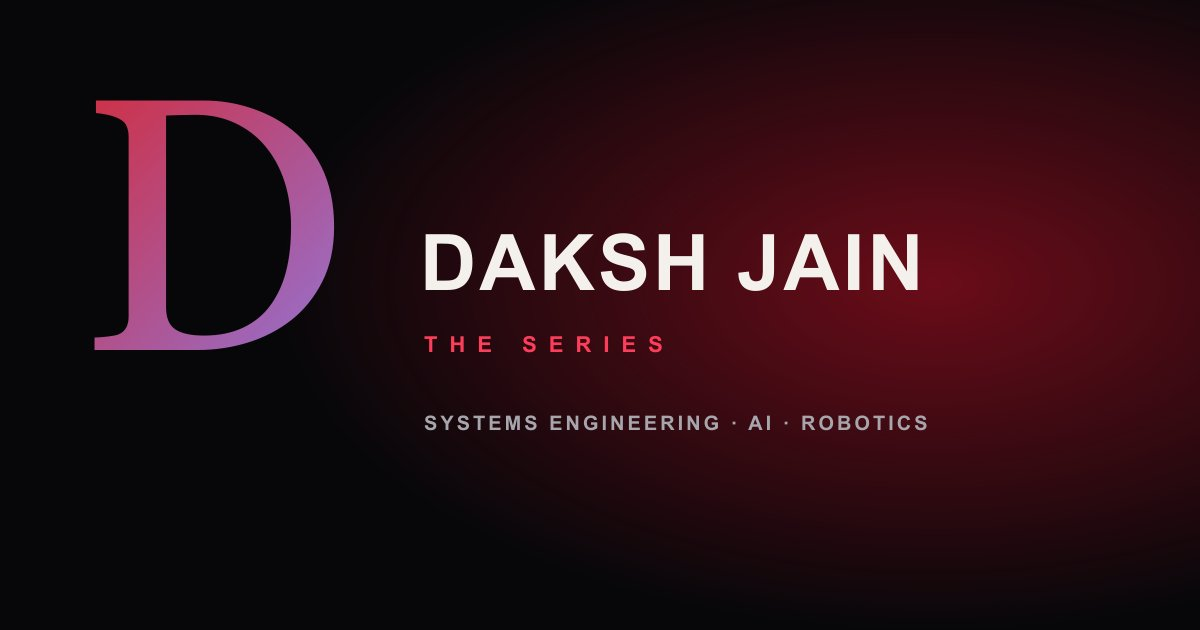
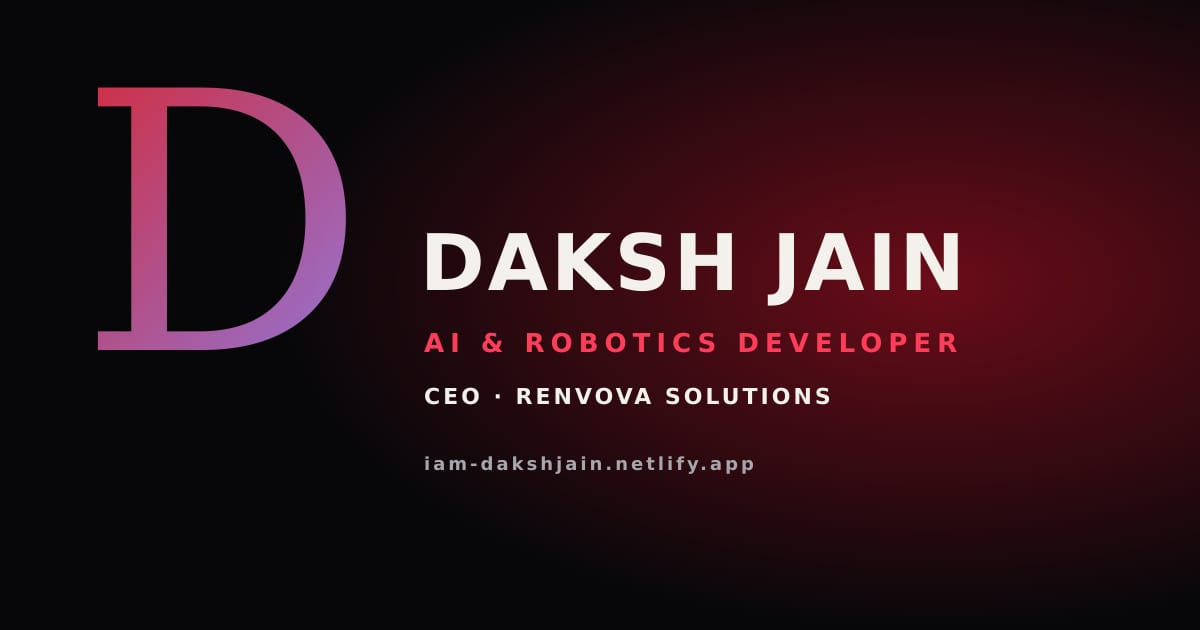
Add SEO metadata, sitemap, robots.txt and Open Graph tags; improve mobile performance (6aed9603d0d4c9b0807c281f)

diff --git a/index.html b/index.html
@@ -1,23 +1,112 @@
 <!doctype html>
-<html lang="en">
+<html lang="en" dir="ltr">
   <head>
     <meta charset="UTF-8" />
     <meta name="viewport" content="width=device-width, initial-scale=1.0, viewport-fit=cover" />
-    <title>Daksh Jain — The Series</title>
-    <meta name="description" content="Daksh Jain — student and CEO of Renvova Resource Solutions, building projects in AI, robotics, accessible learning, and systems engineering." />
+
+    <!-- Primary SEO -->
+    <title>Daksh Jain – AI &amp; Robotics Developer &amp; CEO of Renvova Solutions</title>
+    <meta name="description" content="Daksh Jain is an AI and robotics developer and CEO of Renvova Resource Solutions in Raipur, India, building projects in AI, robotics, accessible tech and systems engineering." />
+    <meta name="author" content="Daksh Jain" />
+    <meta name="keywords" content="Daksh Jain, AI developer, robotics developer, Renvova Solutions, Renvova Resource Solutions, CEO, student developer, Raipur, portfolio" />
+    <meta name="robots" content="index, follow, max-image-preview:large, max-snippet:-1, max-video-preview:-1" />
+    <link rel="canonical" href="https://iam-dakshjain.netlify.app/" />
     <meta name="theme-color" content="#07070a" />
-    <meta property="og:title" content="Daksh Jain — The Series" />
-    <meta property="og:description" content="CEO, Renvova Resource Solutions • AI • Robotics • Accessible Technology. Every project is an Original." />
-    <meta property="og:image" content="/assets/og-image.jpg" />
+    <meta name="color-scheme" content="dark" />
+    <meta name="format-detection" content="telephone=no" />
+
+    <!-- Open Graph -->
+    <meta property="og:type" content="profile" />
+    <meta property="og:site_name" content="Daksh Jain" />
+    <meta property="og:locale" content="en_US" />
+    <meta property="og:url" content="https://iam-dakshjain.netlify.app/" />
+    <meta property="og:title" content="Daksh Jain – AI &amp; Robotics Developer &amp; CEO of Renvova Solutions" />
+    <meta property="og:description" content="AI and robotics developer, student builder and CEO of Renvova Resource Solutions. Explore projects in AI, robotics and accessible technology." />
+    <meta property="og:image" content="https://iam-dakshjain.netlify.app/assets/og-image.jpg" />
+    <meta property="og:image:secure_url" content="https://iam-dakshjain.netlify.app/assets/og-image.jpg" />
+    <meta property="og:image:type" content="image/jpeg" />
+    <meta property="og:image:width" content="1200" />
+    <meta property="og:image:height" content="630" />
+    <meta property="og:image:alt" content="Daksh Jain – AI &amp; Robotics Developer and CEO of Renvova Solutions" />
+    <meta property="profile:first_name" content="Daksh" />
+    <meta property="profile:last_name" content="Jain" />
+
+    <!-- Twitter / X -->
     <meta name="twitter:card" content="summary_large_image" />
+    <meta name="twitter:title" content="Daksh Jain – AI &amp; Robotics Developer &amp; CEO of Renvova Solutions" />
+    <meta name="twitter:description" content="AI and robotics developer, student builder and CEO of Renvova Resource Solutions." />
+    <meta name="twitter:image" content="https://iam-dakshjain.netlify.app/assets/og-image.jpg" />
+    <meta name="twitter:image:alt" content="Daksh Jain – AI &amp; Robotics Developer and CEO of Renvova Solutions" />
+
+    <!-- Icons -->
     <link rel="icon" type="image/svg+xml" href="/favicon.svg" />
+    <link rel="sitemap" type="application/xml" href="/sitemap.xml" />
+
+    <!-- Structured data -->
+    <script type="application/ld+json">
+      {
+        "@context": "https://schema.org",
+        "@graph": [
+          {
+            "@type": "Person",
+            "@id": "https://iam-dakshjain.netlify.app/#person",
+            "name": "Daksh Jain",
+            "url": "https://iam-dakshjain.netlify.app/",
+            "image": "https://iam-dakshjain.netlify.app/assets/og-image.jpg",
+            "jobTitle": "AI & Robotics Developer; CEO, Renvova Resource Solutions",
+            "description": "AI and robotics developer, student builder and CEO of Renvova Resource Solutions.",
+            "worksFor": {
+              "@type": "Organization",
+              "name": "Renvova Resource Solutions",
+              "alternateName": "Renvova Solutions",
+              "sameAs": ["https://www.instagram.com/renvovasolutions/"]
+            },
+            "address": {
+              "@type": "PostalAddress",
+              "addressLocality": "Raipur",
+              "addressRegion": "Chhattisgarh",
+              "addressCountry": "IN"
+            },
+            "knowsAbout": ["Artificial Intelligence", "Robotics", "Systems Engineering", "Accessible Technology", "Cryptography"],
+            "sameAs": ["https://linkedin.com/in/dakshu-j", "https://github.com/dakshu180"]
+          },
+          {
+            "@type": "WebSite",
+            "@id": "https://iam-dakshjain.netlify.app/#website",
+            "url": "https://iam-dakshjain.netlify.app/",
+            "name": "Daksh Jain – Portfolio",
+            "inLanguage": "en",
+            "author": { "@id": "https://iam-dakshjain.netlify.app/#person" }
+          }
+        ]
+      }
+    </script>
+
+    <!-- Fonts: preconnect + non-render-blocking stylesheet -->
     <link rel="preconnect" href="https://fonts.googleapis.com" />
     <link rel="preconnect" href="https://fonts.gstatic.com" crossorigin />
-    <link href="https://fonts.googleapis.com/css2?family=Bebas+Neue&family=Instrument+Serif:ital@0;1&family=Inter:wght@300;400;500;600;700;800&display=swap" rel="stylesheet" />
+    <link rel="preload" as="style" href="https://fonts.googleapis.com/css2?family=Bebas+Neue&family=Instrument+Serif:ital@0;1&family=Inter:wght@300;400;500;600;700;800&display=swap" />
+    <link rel="stylesheet" href="https://fonts.googleapis.com/css2?family=Bebas+Neue&family=Instrument+Serif:ital@0;1&family=Inter:wght@300;400;500;600;700;800&display=swap" media="print" onload="this.media='all'" />
+    <noscript>
+      <link rel="stylesheet" href="https://fonts.googleapis.com/css2?family=Bebas+Neue&family=Instrument+Serif:ital@0;1&family=Inter:wght@300;400;500;600;700;800&display=swap" />
+    </noscript>
+
+    <link rel="preload" as="image" type="image/svg+xml" href="/assets/daksh-monogram.svg" />
   </head>
   <body>
     <div id="root"></div>
-    <noscript>Daksh Jain — Systems Engineer and Full-Stack Developer. Please enable JavaScript to watch the series.</noscript>
+    <noscript>
+      <main style="font-family: system-ui, sans-serif; color: #f4f1ec; background: #07070a; padding: 2rem; max-width: 42rem; margin: 0 auto;">
+        <h1>Daksh Jain – AI &amp; Robotics Developer &amp; CEO of Renvova Solutions</h1>
+        <p>Student builder and CEO of Renvova Resource Solutions in Raipur, India, working on AI, robotics, accessible learning and systems engineering projects.</p>
+        <p>
+          <a href="https://github.com/dakshu180" style="color:#ff3d5a">GitHub</a> ·
+          <a href="https://linkedin.com/in/dakshu-j" style="color:#ff3d5a">LinkedIn</a> ·
+          <a href="/assets/Daksh_Jain_Resume_v3.pdf" style="color:#ff3d5a">Resume (PDF)</a>
+        </p>
+        <p>Please enable JavaScript to watch the full series.</p>
+      </main>
+    </noscript>
     <script type="module" src="/src/main.tsx"></script>
   </body>
 </html>

diff --git a/src/components/OpeningSequence.tsx b/src/components/OpeningSequence.tsx
@@ -82,16 +82,20 @@ export default function OpeningSequence({ onDone }: { onDone: () => void }) {
 
       {/* portrait */}
       <motion.div
-        className="absolute inset-x-0 bottom-0 z-0 mx-auto flex h-[68vh] max-w-[900px] items-end justify-center"
+        className="absolute inset-x-0 bottom-0 z-0 mx-auto flex h-[68svh] max-w-[900px] items-end justify-center"
         initial={{ opacity: 0, scale: 1.12, filter: 'blur(18px) brightness(0.3)' }}
         animate={beat >= 4 ? { opacity: 1, scale: 1, filter: 'blur(0px) brightness(1)' } : {}}
         transition={{ duration: 1.6, ease: EASE }}
       >
         <img
           src={profile.portrait.src}
-          srcSet={profile.portrait.srcSet}
+          srcSet={profile.portrait.srcSet || undefined}
           sizes="(max-width: 768px) 100vw, 900px"
           alt={profile.portrait.alt}
+          width={profile.portrait.width}
+          height={profile.portrait.height}
+          decoding="async"
+          fetchPriority="high"
           className="h-full w-auto max-w-none object-contain object-bottom [mask-image:linear-gradient(to_bottom,black_55%,transparent_98%)]"
 
         />

diff --git a/src/components/Hero.tsx b/src/components/Hero.tsx
@@ -88,9 +88,13 @@ export default function Hero({ onPlay, onResume, profileId }: { onPlay: () => vo
           <div aria-hidden className="absolute bottom-[8%] left-1/2 h-[78%] w-[78%] -translate-x-1/2 rounded-full border border-crimson-2/20 shadow-[0_0_120px_rgba(229,19,43,0.35),inset_0_0_80px_rgba(229,19,43,0.18)]" />
           <img
             src={profile.portrait.src}
-            srcSet={profile.portrait.srcSet}
+            srcSet={profile.portrait.srcSet || undefined}
             sizes="(max-width: 1024px) 100vw, 54vw"
             alt={profile.portrait.alt}
+            width={profile.portrait.width}
+            height={profile.portrait.height}
+            decoding="async"
+            fetchPriority="high"
 
             className="absolute bottom-0 left-1/2 h-full w-auto max-w-none -translate-x-1/2 object-contain object-bottom drop-shadow-[0_30px_60px_rgba(0,0,0,0.6)] [mask-image:linear-gradient(to_bottom,black_62%,transparent_97%)]"
           />

diff --git a/src/components/PlayIntro.tsx b/src/components/PlayIntro.tsx
@@ -102,10 +102,13 @@ export default function PlayIntro({ onClose }: { onClose: () => void }) {
       >
         <img
           src={profile.portrait.src}
-          srcSet={profile.portrait.srcSet}
+          srcSet={profile.portrait.srcSet || undefined}
           sizes="100vw"
           alt=""
-          className="h-[88vh] w-auto max-w-none object-contain [mask-image:linear-gradient(to_bottom,black_60%,transparent)]"
+          width={profile.portrait.width}
+          height={profile.portrait.height}
+          decoding="async"
+          className="h-[88svh] w-auto max-w-none object-contain [mask-image:linear-gradient(to_bottom,black_60%,transparent)]"
         />
       </motion.div>
       <div aria-hidden className="absolute inset-0 bg-[radial-gradient(60%_60%_at_50%_45%,rgba(120,10,25,0.35),transparent_70%)]" />

diff --git a/src/components/ProfileSelector.tsx b/src/components/ProfileSelector.tsx
@@ -9,7 +9,7 @@ export function ProfileAvatar({ id, size = 'lg' }: { id: ProfileId; size?: 'sm' 
   if (id === 'main') {
     return (
       <span className={`relative block overflow-hidden ${box}`} style={{ background: 'radial-gradient(circle at 50% 30%, #7a0f24, #1a0509)' }}>
-        <img src={profile.portrait.src} alt="" className="absolute inset-x-0 bottom-0 mx-auto h-[115%] w-auto max-w-none -translate-x-[3%] object-cover object-top" />
+        <img src={profile.portrait.src} alt="" width={profile.portrait.width} height={profile.portrait.height} decoding="async" className="absolute inset-x-0 bottom-0 mx-auto h-[115%] w-auto max-w-none -translate-x-[3%] object-cover object-top" />
       </span>
     );
   }

diff --git a/src/components/ProjectModal.tsx b/src/components/ProjectModal.tsx
@@ -50,7 +50,7 @@ export default function ProjectModal({ project, onClose, onSwitch }: { project: 
           exit={{ opacity: 0, y: 30, transition: { duration: 0.3 } }}
         >
           {/* billboard */}
-          <div className="relative h-[52vh] min-h-[340px] overflow-hidden sm:rounded-t-2xl">
+          <div className="relative h-[52svh] min-h-[340px] overflow-hidden sm:rounded-t-2xl">
             <motion.div layoutId={`art-${project.id}`} className="absolute inset-0" transition={{ duration: 0.7, ease: EASE }}>
               <ProjectArt project={project} />
             </motion.div>

diff --git a/src/components/About.tsx b/src/components/About.tsx
@@ -29,6 +29,9 @@ export default function About() {
               src={profile.portrait.src}
               alt={profile.portrait.alt}
               loading="lazy"
+              decoding="async"
+              width={profile.portrait.width}
+              height={profile.portrait.height}
               className="absolute bottom-0 left-1/2 h-[92%] w-auto max-w-none -translate-x-1/2 object-contain object-bottom"
             />
             <div className="absolute inset-x-0 bottom-0 h-1/3 bg-gradient-to-t from-black/90 to-transparent" />

diff --git a/vite.config.ts b/vite.config.ts
@@ -6,6 +6,9 @@ export default defineConfig({
   plugins: [react(), tailwindcss()],
   build: {
     target: 'es2020',
+    // Hashed JS/CSS goes to /static so it can be cached forever without touching /assets (public, unhashed files).
+    assetsDir: 'static',
+    cssCodeSplit: true,
     rollupOptions: {
       output: {
         manualChunks: { motion: ['framer-motion'], react: ['react', 'react-dom'] },

diff --git a/src/data/portfolio.ts b/src/data/portfolio.ts
@@ -28,6 +28,8 @@ export const profile = {
     src: '/assets/daksh-monogram.svg',
     srcSet: '',
     alt: 'Daksh Jain monogram artwork',
+    width: 600,
+    height: 900,
   },
   interests: ['Custom Firmware', 'Cryptography', 'AI & Robotics'],
 };
